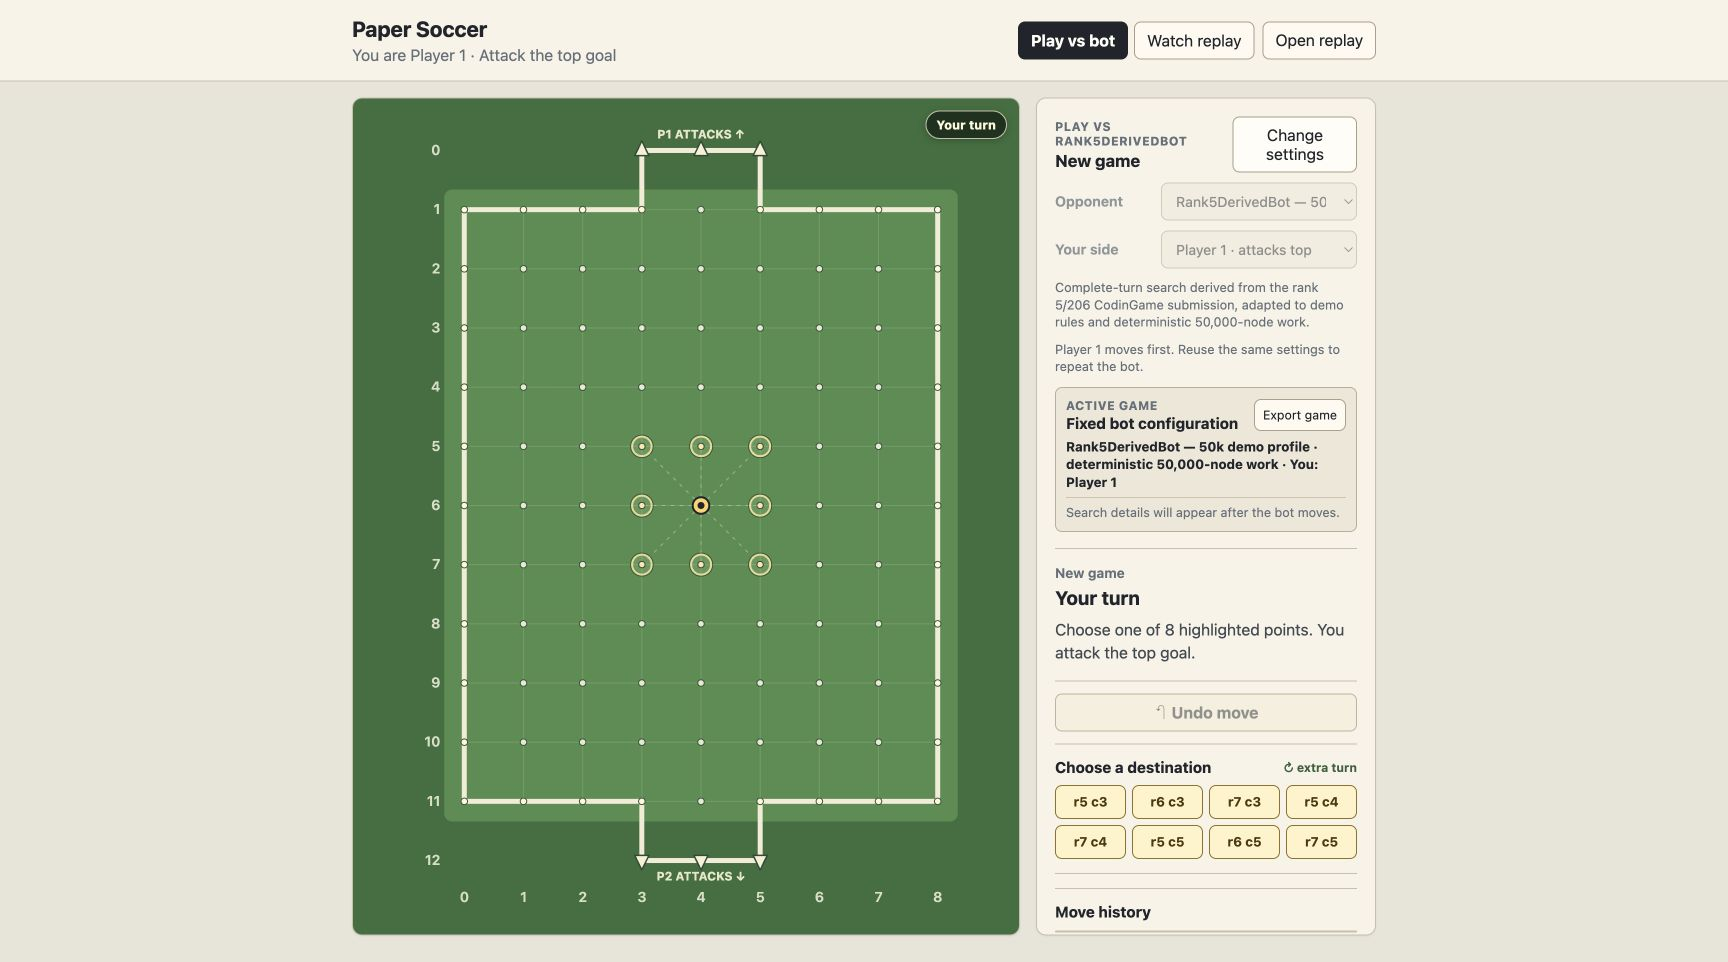
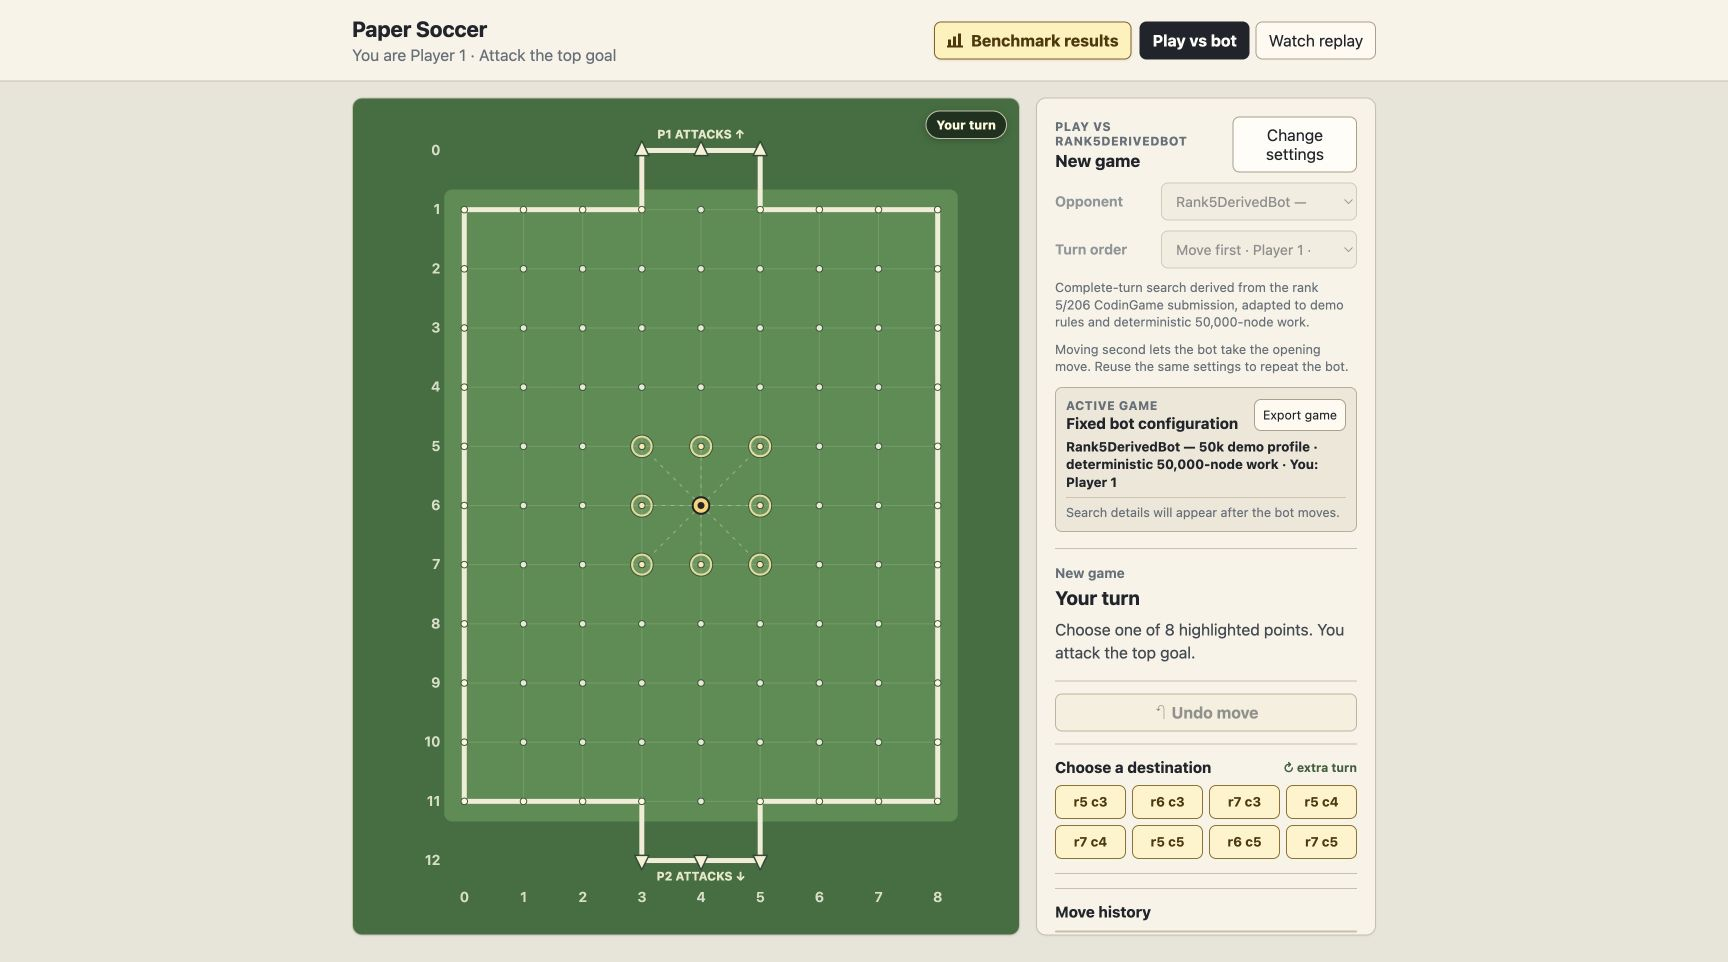
Update web documentation and README screenshot

diff --git a/docs/reproducibility.md b/docs/reproducibility.md
@@ -143,6 +143,30 @@ generated JavaScript is expected to be marked as generated for repository
 language statistics; the C++ and hand-written JavaScript around it remain
 maintained source.
 
+## Benchmark website snapshot
+
+`web/benchmarks/benchmark-results.js` is a compact, deterministic publication
+of the frozen flagship study. It is generated from the study manifest,
+selection lock, and curated test data, and contains bot-performance results
+only. It deliberately excludes individual games, execution environments,
+timestamps, and hashes.
+
+Check that the published snapshot is current without changing it:
+
+```bash
+python3 benchmarks/flagship_study/web_summary.py --check
+```
+
+After intentionally changing the source benchmark artifacts or the publication
+contract, regenerate the snapshot with:
+
+```bash
+python3 benchmarks/flagship_study/web_summary.py --write
+```
+
+The generator validates that the study is frozen, complete, and tied to the
+selected configurations before it publishes anything.
+
 ## Jacek-inspired model
 
 The checked-in model JSON and generated C++ header are bound by hashes and a
@@ -234,11 +258,12 @@ Before publishing documentation or code that changes evidence paths:
 1. Run `./scripts/build-and-test.sh`.
 2. Run the rank-5 generator `--check` and verify the expected SHA-256.
 3. With Emscripten 6.0.2, run `check_papersoccer_web` if browser C++ changed.
-4. Run the Python import validation and model generator check if research code
+4. Run `web_summary.py --check` if benchmark inputs or presentation changed.
+5. Run the Python import validation and model generator check if research code
    or dependencies changed.
-5. Confirm raw outputs remain under ignored `results/` and curated reports
+6. Confirm raw outputs remain under ignored `results/` and curated reports
    remain tracked under `benchmarks/`.
-6. Recheck Markdown links from their containing file; paths inside `docs/`
+7. Recheck Markdown links from their containing file; paths inside `docs/`
    require `../` to reach repository-root artifacts.
-7. Review claims against [Experiments](experiments.md) and the specialized
+8. Review claims against [Experiments](experiments.md) and the specialized
    source records, preserving limitations and bot provenance.

diff --git a/README.md b/README.md
@@ -7,10 +7,11 @@ for paper soccer.
 [![MIT License](https://img.shields.io/github/license/Lecorbio/paper-soccer-strategy-engine)](LICENSE)
 
 **[Play in your browser](https://lecorbio.github.io/paper-soccer-strategy-engine/)**
+· [View benchmark results](https://lecorbio.github.io/paper-soccer-strategy-engine/benchmarks/)
 · [Learn how it works](docs/algorithms.md)
 · [Explore the documentation](#documentation)
 
-[![Paper Soccer browser demo with Rank5DerivedBot selected](docs/assets/demo-rank5-derived.jpg)](https://lecorbio.github.io/paper-soccer-strategy-engine/)
+[![Paper Soccer browser game with the Benchmark results link and Rank5DerivedBot selected](docs/assets/demo-rank5-derived.jpg)](https://lecorbio.github.io/paper-soccer-strategy-engine/)
 
 ## What is this?
 
@@ -37,7 +38,9 @@ crowding this overview.
 
 The [live demo](https://lecorbio.github.io/paper-soccer-strategy-engine/) needs
 no installation. You can play against a bot, inspect its search diagnostics,
-undo moves, or generate and replay bot-versus-bot games.
+undo moves, or use **Watch replay** to generate a bot match or open an existing
+replay. **[Benchmark results](https://lecorbio.github.io/paper-soccer-strategy-engine/benchmarks/)**
+opens the frozen four-bot study.
 
 To run the checked-in browser build locally, open `web/index.html` in a modern
 browser. No local server is required.
@@ -81,8 +84,9 @@ sanitizer configurations, WebAssembly verification, and research dependencies.
   frontends, WebAssembly boundary, and repository layout.
 - [Experiments and benchmark evidence](docs/experiments.md) records the arena
   methodology, historical results, promotion decisions, and limitations. The
-  [flagship study report](benchmarks/flagship_study/REPORT.md) presents the
-  current comparative evaluation of the demo bots.
+  [benchmark overview](https://lecorbio.github.io/paper-soccer-strategy-engine/benchmarks/)
+  presents the current result interactively; the [flagship study
+  report](benchmarks/flagship_study/REPORT.md) contains the full analysis.
 - [Reproducibility](docs/reproducibility.md) contains build variants, artifact
   verification, hashes, and clean-environment checks.
 - [CodinGame submissions](submissions/codingame/README.md) documents the

diff --git a/docs/demo-and-replays.md b/docs/demo-and-replays.md
@@ -4,6 +4,8 @@ The [live GitHub Pages demo](https://lecorbio.github.io/paper-soccer-strategy-en
 is a static browser application backed by the same C++ rules and bot code as
 the native tools. It supports human-versus-bot games, takebacks, diagnostics,
 bot-versus-bot replay generation, and imported replay inspection.
+The separate **[Benchmark results](https://lecorbio.github.io/paper-soccer-strategy-engine/benchmarks/)**
+link opens a static overview of the frozen flagship study.
 
 ## Run the browser locally
 
@@ -67,15 +69,17 @@ The exported human match can be opened through the normal replay loader.
 
 ## Watch or generate a replay
 
-Select **Watch replay** to open the built-in game or generate a bot-versus-bot
-match. Each player has an independent bot and seed, plus an MCTS iteration or
-alpha-beta depth setting when relevant. Either player can use Rank5Derived; its
-fixed profile and provenance are retained in the replay metadata.
+Select **Watch replay**, then choose **Generate replay** to create a
+bot-versus-bot match with the settings below, or **Open existing** to load a
+replay JSON file from disk. Each player has an independent bot and seed, plus
+an MCTS iteration or alpha-beta depth setting when relevant. Either player can
+use Rank5Derived; its fixed profile and provenance are retained in the replay
+metadata.
 
 Generation advances one edge at a time so controls and diagnostics can update
 between searches. It stops after 512 plies if no winner has been reached,
 reports progress during longer matches, and opens the result directly in the
-viewer. **Open replay** loads a replay from disk.
+viewer.
 
 The browser remains a presentation layer. C++ owns state, legal moves,
 rebounds, winners, bot RNG, and history. JavaScript owns canvas drawing,

diff --git a/docs/architecture.md b/docs/architecture.md
@@ -95,6 +95,13 @@ are not compatible with every direct-file browser. See
 [Reproducibility](reproducibility.md#webassembly-artifact) for the pinned build
 and freshness check.
 
+The benchmark overview is a separate direct-file-compatible static page at
+`web/benchmarks/index.html`. It reads the compact checked-in
+`benchmark-results.js` snapshot and loads neither the game client nor the Wasm
+module. The snapshot contains public bot-performance results only; its source
+and freshness workflow are documented in
+[Reproducibility](reproducibility.md#benchmark-website-snapshot).
+
 Undo is a frontend command, not a mutation hidden inside a bot. Restoring a
 state and asking a bot to continue can invalidate retained work. The browser
 therefore pauses after undoing a bot edge and requires an explicit **Continue
@@ -142,7 +149,7 @@ and [Experiments](experiments.md#rank5derived-demo-gates) for demo-only gates.
 │   ├── cli/                    Interactive terminal frontend
 │   ├── replay/                 Seeded replay exporter
 │   └── web/                    C++ browser sessions and Wasm bridge
-├── web/                        Static UI and checked-in Wasm module
+├── web/                        Static game/benchmark UIs and checked-in Wasm
 ├── tests/
 │   ├── core/                   Rule and match behavior
 │   ├── bots/                   Bot correctness and determinism

diff --git a/benchmarks/flagship_study/README.md b/benchmarks/flagship_study/README.md
@@ -43,10 +43,21 @@ python3 benchmarks/flagship_study/run_study.py validate
 
 ## Published artifacts
 
-Start with [`REPORT.md`](REPORT.md) for the bot-performance results. The
-machine-readable development, validation, and test results are under `data/`;
-`selection_lock.json` records the selected configurations, and `charts/`
-contains the generated figures.
+Start with the live [benchmark overview](https://lecorbio.github.io/paper-soccer-strategy-engine/benchmarks/)
+for a concise presentation, or [`REPORT.md`](REPORT.md) for the full technical
+analysis. The machine-readable development, validation, and test results are
+under `data/`; `selection_lock.json` records the selected configurations, and
+`charts/` contains the generated figures.
+
+The website reads the checked-in `web/benchmarks/benchmark-results.js`
+snapshot. It publishes bot-performance results only and excludes individual
+games, execution environments, timestamps, and hashes. Verify or intentionally
+regenerate it from the frozen study inputs with:
+
+```sh
+python3 benchmarks/flagship_study/web_summary.py --check
+python3 benchmarks/flagship_study/web_summary.py --write
+```
 
 The completed study cannot be rerun from a later framework checkout. Its exact
 execution framework and retired audit attachments remain available in the

diff --git a/docs/experiments.md b/docs/experiments.md
@@ -10,6 +10,11 @@ reports that support repository claims remain tracked under `benchmarks/`.
 Verified CodinGame artifacts and their historical results stay under
 `submissions/codingame/`; they are never moved into ignored output.
 
+For a reader-focused presentation of the current frozen four-bot result, see
+the live [benchmark overview](https://lecorbio.github.io/paper-soccer-strategy-engine/benchmarks/).
+The [flagship study report](../benchmarks/flagship_study/REPORT.md) retains the
+full technical analysis.
+
 ## Arena methodology
 
 The native arena has two JSON-report modes:
